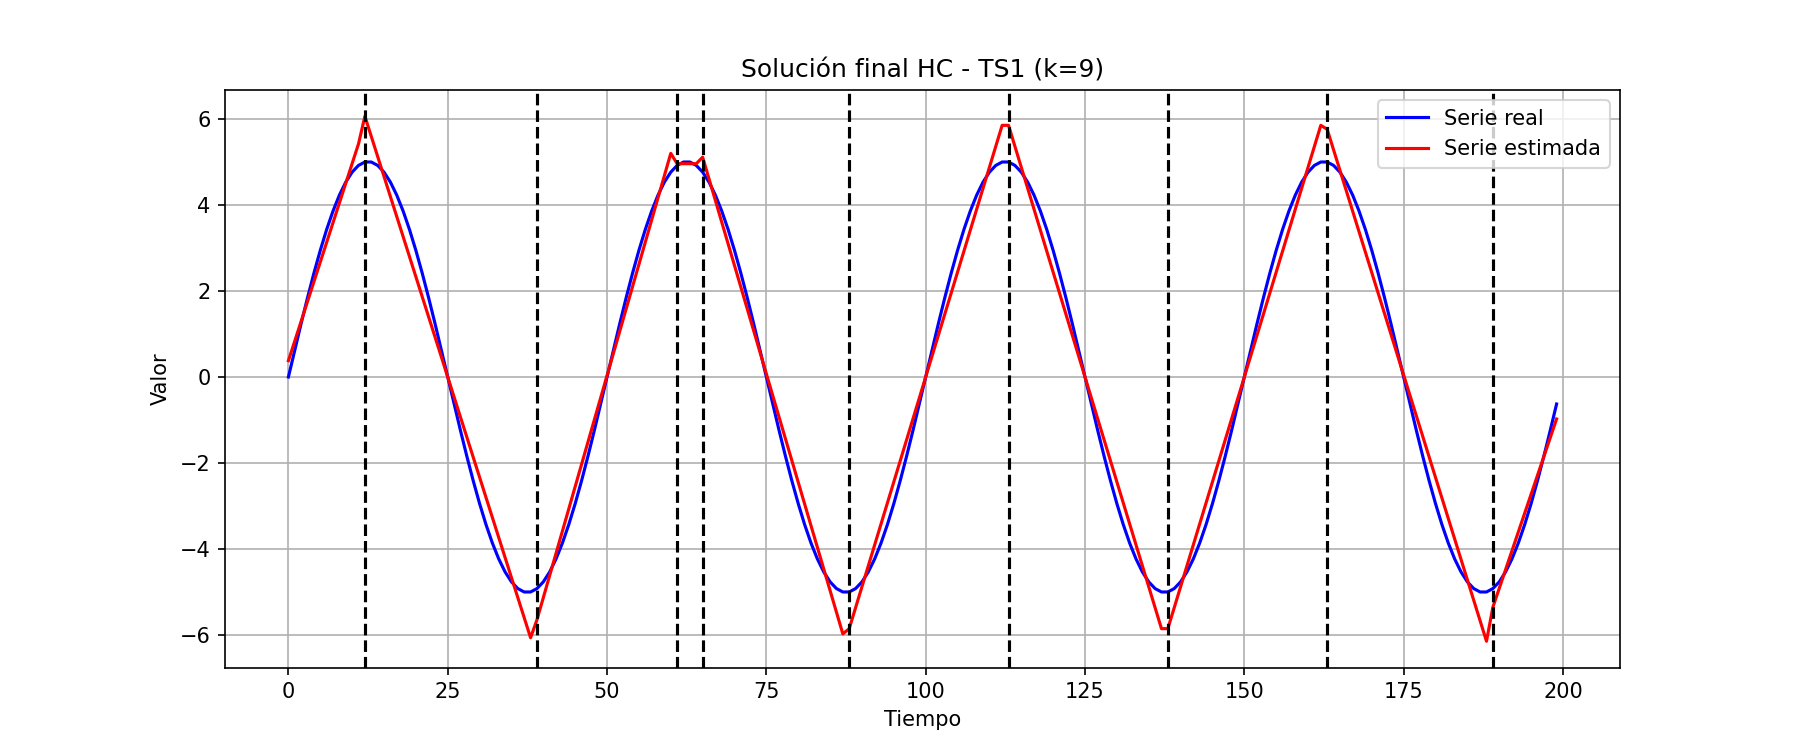
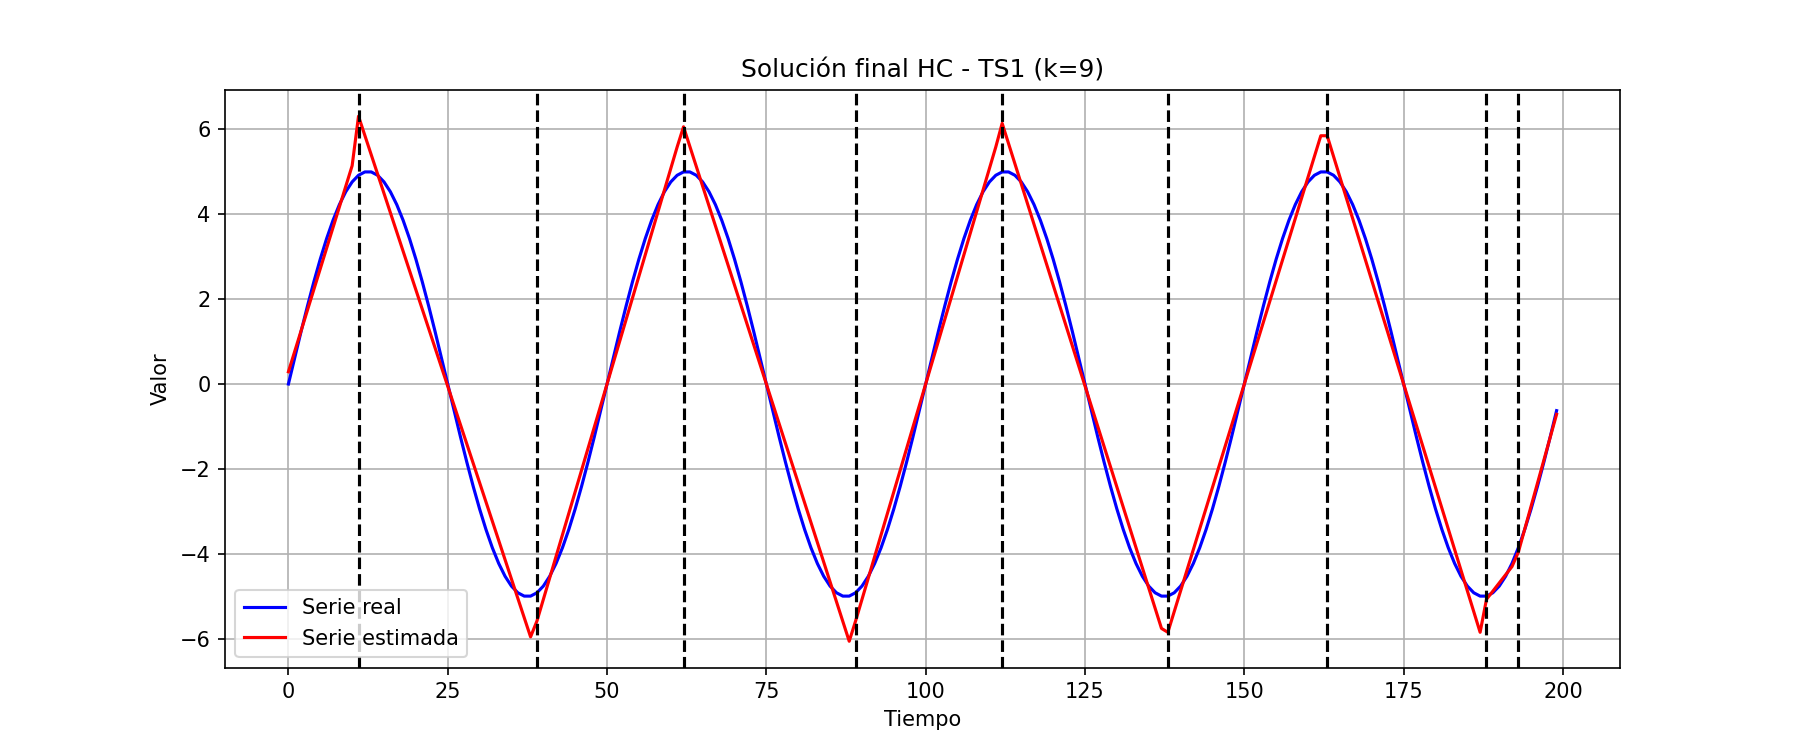
feat: added best save into hc algorithm

Changed region(s): [[0.0933, 0.1227, 0.9022, 0.8893], [0.5289, 0.7053, 0.5911, 0.7667], [0.4667, 0.2453, 0.4978, 0.3067]]

diff --git a/HC/hill_climbing.py b/HC/hill_climbing.py
@@ -10,10 +10,12 @@ import time
 # 1. REGRESIÓN LINEAL POR SEGMENTOS
 # ============================================================
 
+
 def read_serie(path):
     with open(path, "r") as f:
         contenido = f.read().replace("[", "").replace("]", "").split()
     return [float(x) for x in contenido]
+
 
 def estimate_segment_coef(x, y):
     x = np.array(x).reshape(-1, 1)
@@ -136,17 +138,15 @@ def search_neighbour(serie, n):
 # ============================================================
 
 
-def hc(serie, k, max_iters=200):
+def hc(serie, k, best=None):
     startTime = time.time()
 
     solucion = randomPoints(len(serie), k)
     rmse = mean_rmse(serie, solucion)
+    mejor_vecino = []
 
-    for _ in range(max_iters):
+    while mejor_vecino is not None:
         vecinos = search_neighbour(solucion, len(serie))
-
-        if not vecinos:
-            break
 
         mejor_vecino = None
         mejor_rmse = rmse
@@ -157,11 +157,13 @@ def hc(serie, k, max_iters=200):
                 mejor_rmse = current
                 mejor_vecino = v
 
-        if mejor_vecino is None:
-            break
+        if mejor_vecino is not None:
+            solucion = mejor_vecino
+            rmse = mejor_rmse
 
-        solucion = mejor_vecino
-        rmse = mejor_rmse
+    if best is not None and best["rmse"] < rmse:
+        rmse = best["rmse"]
+        solucion = best["points"]
 
     endTime = time.time()
     return {"rmse": rmse, "points": solucion}, endTime - startTime
@@ -183,7 +185,18 @@ def ejecutar_HC(series, k_values, repeticiones=20):
 
         rep_result = []
         for rep in range(repeticiones):
-            sol, tiempo = hc(serie, k)
+            if len(rep_result) > 0:
+                sol, tiempo = hc(
+                    serie,
+                    k,
+                    {
+                        "rmse": rep_result[-1]["rmse"],
+                        "points": rep_result[-1]["points"],
+                    },
+                )
+            else:
+                sol, tiempo = hc(serie, k)
+
             rep_result.append(
                 {"rmse": sol["rmse"], "points": sol["points"], "tiempo": tiempo}
             )
@@ -236,7 +249,7 @@ def plot_HC_RMSE(series, resultados):
         plt.ylabel("RMSE")
         plt.grid(True)
         plt.legend()
-        plt.savefig(f"TS{idx+1}_mean.png", dpi=150)
+        plt.savefig(f"TS{idx + 1}_mean.png", dpi=150)
         plt.show()
 
 

diff --git a/HC/main_hc.py b/HC/main_hc.py
@@ -1,6 +1,4 @@
-from hill_climbing import (
-    read_serie, ejecutar_HC, plot_HC_RMSE, plot_final_HC
-)
+from hill_climbing import read_serie, ejecutar_HC, plot_HC_RMSE, plot_final_HC
 
 import pandas as pd
 from tabulate import tabulate
@@ -35,21 +33,34 @@ plot_final_HC(series, resultados_HC, k_values)
 # 4. MÉTRICAS
 # ============================================================
 
-rmse_medios = [pd.Series([rep["rmse"] for rep in resultados_HC[i]]).mean() for i in range(4)]
-rmse_desv = [pd.Series([rep["rmse"] for rep in resultados_HC[i]]).std() for i in range(4)]
-tiempos_medios = [pd.Series([rep["tiempo"] for rep in resultados_HC[i]]).mean() for i in range(4)]
+rmse_medios = [
+    pd.Series([rep["rmse"] for rep in resultados_HC[i]]).mean() for i in range(4)
+]
+rmse_desv = [
+    pd.Series([rep["rmse"] for rep in resultados_HC[i]]).std() for i in range(4)
+]
+tiempos_medios = [
+    pd.Series([rep["tiempo"] for rep in resultados_HC[i]]).mean() for i in range(4)
+]
 
-tabla = pd.DataFrame({
-    "Serie": ["TS1 (k=9)", "TS2 (k=10)", "TS3 (k=20)", "TS4 (k=50)"],
-    "RMSE medio": rmse_medios,
-    "Desviación típica": rmse_desv,
-    "Tiempo medio (s)": tiempos_medios
-})
+tabla = pd.DataFrame(
+    {
+        "Serie": ["TS1 (k=9)", "TS2 (k=10)", "TS3 (k=20)", "TS4 (k=50)"],
+        "RMSE medio": rmse_medios,
+        "Desviación típica": rmse_desv,
+        "Tiempo medio (s)": tiempos_medios,
+    }
+)
 
 tabla_formateada = tabla.copy()
 tabla_formateada["RMSE medio"] = tabla_formateada["RMSE medio"].map("{:.6f}".format)
-tabla_formateada["Desviación típica"] = tabla_formateada["Desviación típica"].map("{:.6f}".format)
-tabla_formateada["Tiempo medio (s)"] = tabla_formateada["Tiempo medio (s)"].map("{:.6f}".format)
+tabla_formateada["Desviación típica"] = tabla_formateada["Desviación típica"].map(
+    "{:.6f}".format
+)
+tabla_formateada["Tiempo medio (s)"] = tabla_formateada["Tiempo medio (s)"].map(
+    "{:.6f}".format
+)
 
-print(tabulate(tabla_formateada, headers="keys", tablefmt="fancy_grid", showindex=False))
-
+print(
+    tabulate(tabla_formateada, headers="keys", tablefmt="fancy_grid", showindex=False)
+)
